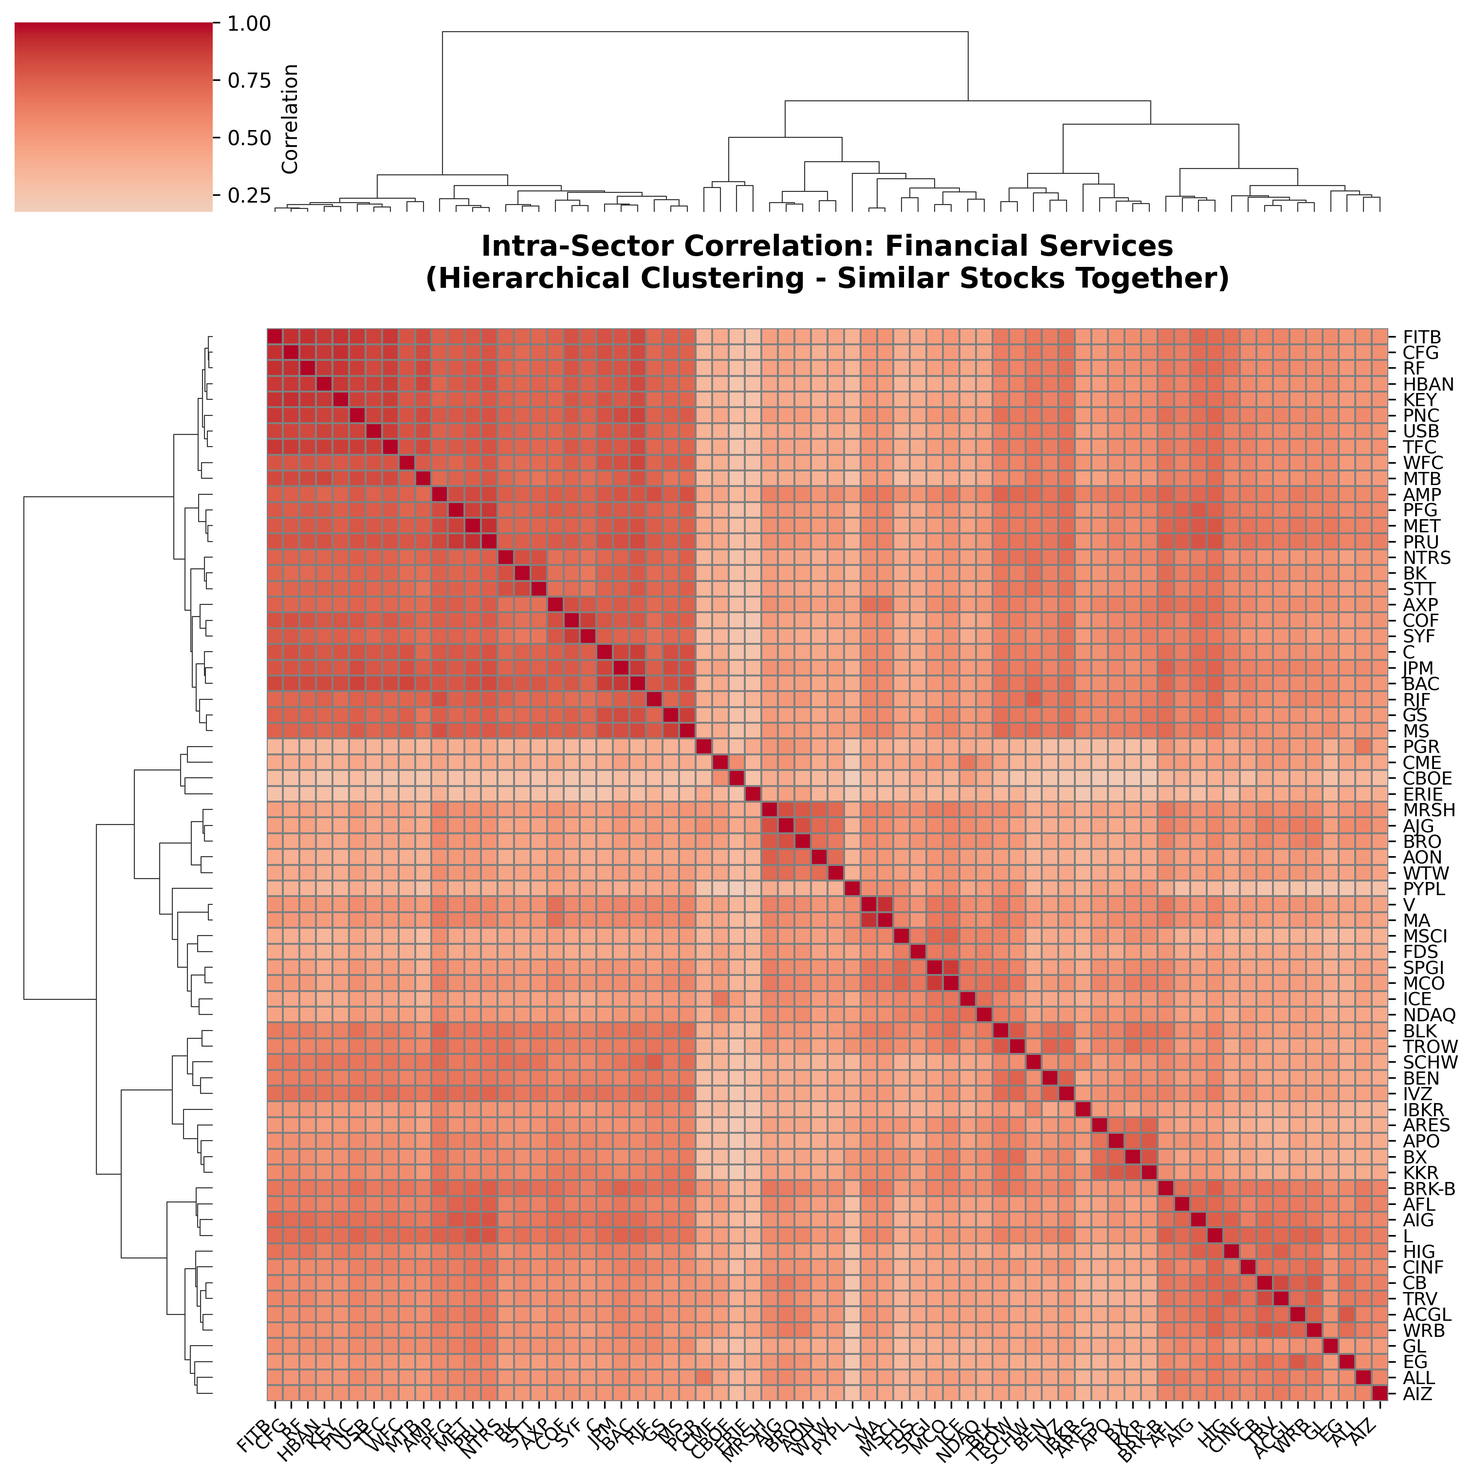
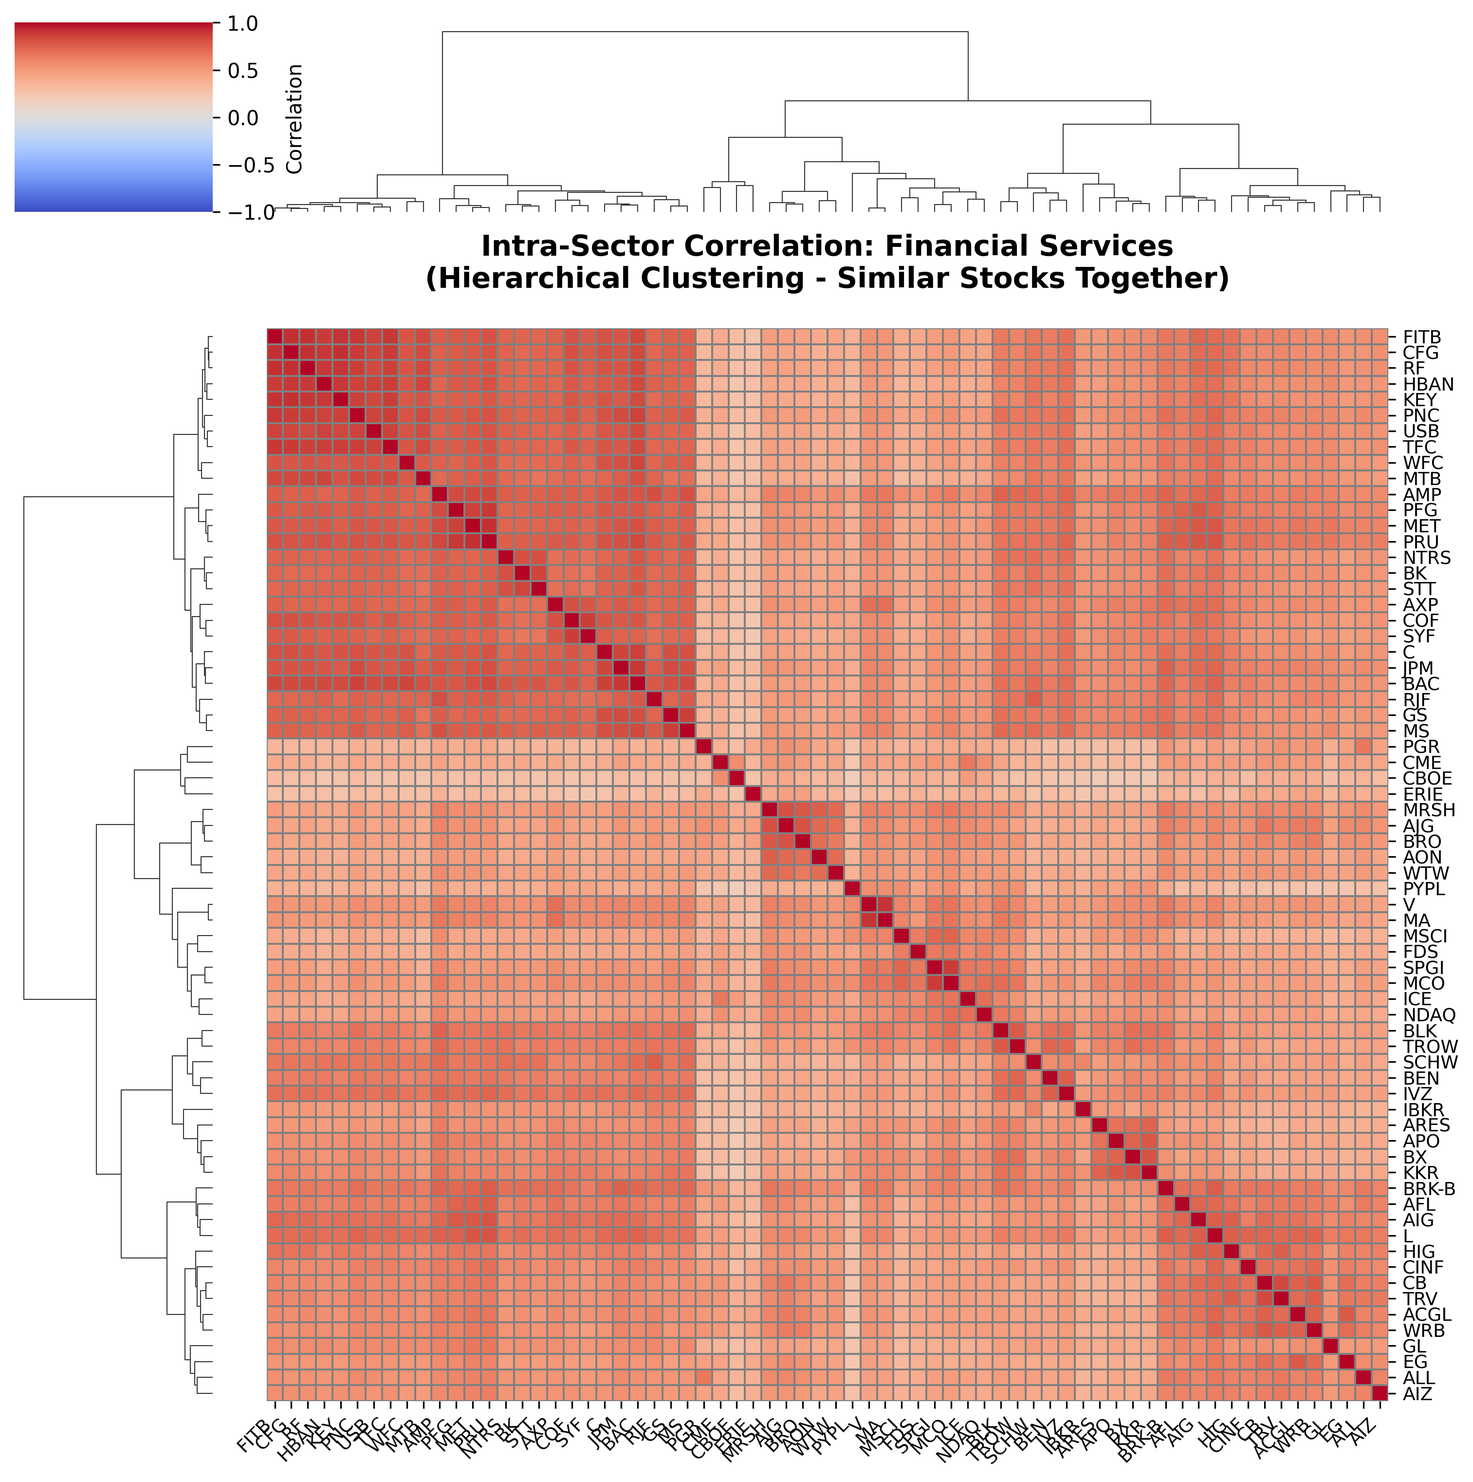
Sync 8-year EDA outputs with report assets

Changed region(s): [[0.0, 0.0, 0.2174, 0.1561]]

diff --git a/LaTex/Final Report.tex b/LaTex/Final Report.tex
@@ -119,33 +119,33 @@ The following heatmaps are created .
 
 \begin{figure}[h]
     \centering
-    \includegraphics[width=0.45\linewidth]{../output/2yrs_sector_correlation.png}
-    \includegraphics[width=0.45\linewidth]{../output/2yrs_sector_sp500_correlation.png}
-    \caption{Correlation across sectors and that of each sector with the S\&P 500 daily return. Highlighted are 3 sectors with highest absolute correlation coefficient with the S\&P 500. Dark colours indicate stronger correlation while light colours indicate weaker correlation. The correlation is calculated based on the engineered feature `Close PC'.}
+    \includegraphics[width=0.45\linewidth]{../output/8yrs_sector_correlation.png}
+    \includegraphics[width=0.45\linewidth]{../output/8yrs_sector_sp500_correlation_mcap_weighted.png}
+    \caption{Correlation across sectors and that of each sector with the S\&P 500 daily return. Highlighted are the three sectors with the highest absolute market-cap-weighted correlation with the S\&P 500: Healthcare ($|r|=0.1244$), Financial Services ($|r|=0.1198$), and Consumer Defensive ($|r|=0.1112$). Dark colours indicate stronger correlation while light colours indicate weaker correlation. The correlation is calculated based on the engineered feature `Close PC'.}
     \label{fig:sector-correlation}
 \end{figure}
 \FloatBarrier
 
-Figure \ref{fig:sector-correlation} shows the correlation of mean daily returns across all sectors \footnote{GICS: Global Industry Classification Standard - a standardized sector taxonomy developed jointly by MSCI and S\&P Dow Jones Indices. It groups companies into 11 sectors. See more at https://www.msci.com/gics}. The map was constructed using the engineered feature `Close PC'. Certain sectors, such as Technology, Healthcare, and Consumer Defensive, exhibit stronger positive correlations with each other while sectors like Utilities and Real Estate show weaker correlations with other sectors. In addition, the sectors' correlation with the S\&P 500 Index indicates that Technology, Healthcare, and Consumer Defensive sectors also have the strongest absolute correlations with the overall market while Utilities and Real Estate show weaker correlations.
+Figure \ref{fig:sector-correlation} shows the correlation of mean daily returns across all sectors \footnote{GICS: Global Industry Classification Standard - a standardized sector taxonomy developed jointly by MSCI and S\&P Dow Jones Indices. It groups companies into 11 sectors. See more at https://www.msci.com/gics}. The map was constructed using the engineered feature `Close PC'. Certain sectors, such as Healthcare, Financial Services, and Consumer Defensive, exhibit stronger positive correlations with each other while sectors like Utilities and Real Estate show weaker correlations with other sectors. In addition, the sectors' market-cap-weighted correlation with the S\&P 500 Index indicates that Healthcare, Financial Services, and Consumer Defensive have the strongest absolute correlations with the overall market while Utilities and Real Estate show weaker correlations.
 
 
 \begin{figure}[h]
     \centering
-    \includegraphics[width=0.32\linewidth]{../output/2yrs_sector_Technology_clustered.png}
-    \includegraphics[width=0.32\linewidth]{../output/2yrs_sector_Healthcare_clustered.png} 
-    \includegraphics[width=0.32\linewidth]{../output/2yrs_sector_Consumer_Defensive_clustered.png}
-    \caption{Intra-sector correlation matrices for the top three sectors by absolute correlation with S\&P 500 returns. From left to right: Technology ($|r| = 0.116$), Healthcare ($|r| = 0.106$), and Consumer Defensive ($|r| = 0.097$) sectors. Hierarchical clustering reveals sub-groups of stocks with similar return dynamics. Warm colours indicate strong positive co-movement while cool colours indicate divergence.}
+    \includegraphics[width=0.32\linewidth]{../output/8yrs_sector_Financial_Services_clustered.png}
+    \includegraphics[width=0.32\linewidth]{../output/8yrs_sector_Healthcare_clustered.png} 
+    \includegraphics[width=0.32\linewidth]{../output/8yrs_sector_Consumer_Defensive_clustered.png}
+    \caption{Intra-sector correlation matrices for the top three sectors by absolute market-cap-weighted correlation with S\&P 500 returns. From left to right: Financial Services ($|r|=0.1198$), Healthcare ($|r|=0.1244$), and Consumer Defensive ($|r|=0.1112$). Hierarchical clustering reveals sub-groups of stocks with similar return dynamics. Warm colours indicate strong positive co-movement while cool colours indicate divergence.}
     \label{fig:top-sectors}
 \end{figure}
 \FloatBarrier
 
-Figure \ref{fig:top-sectors} show the intra-sector correlation matrices for the Technology, Healthcare, and Consumer Defensive sectors, respectively. The tickers in those plots are sorted by hierarchical clustering, which reveals sub-groups of stocks that tend to move together, such as large-cap tech giants, semiconductor companies, and software firms. This suggests that certain segments within these sectors may be driving their overall correlation with the broader market and that there might be a high degree of redundancy in the data. This motivate the use of dimensionality reduction techniques or regularization further.
+Figure \ref{fig:top-sectors} shows the intra-sector correlation matrices for the Financial Services, Healthcare, and Consumer Defensive sectors, respectively. The tickers in those plots are sorted by hierarchical clustering, which reveals sub-groups of stocks that tend to move together within each sector. This suggests that certain segments within these sectors may be driving their overall correlation with the broader market and that there might be a high degree of redundancy in the data. This motivates the use of dimensionality reduction techniques or regularization further.
 
 
 \begin{figure}[h]
     \centering
-    \includegraphics[width=0.45\linewidth]{../output/2yrs_sector_volatility_over_time.png}
-    \includegraphics[width=0.45\linewidth]{../output/2yrs_smoothed_sector_volatility.png}
+    \includegraphics[width=0.45\linewidth]{../output/8yrs_sector_volatility_over_time.png}
+    \includegraphics[width=0.45\linewidth]{../output/8yrs_smoothed_sector_volatility.png}
     \caption{Sector return dispersion. Left panel: sector return dispersion over time. Right panel: smoothed sector return dispersion over time.}
     \vspace{0.3em}
     {\footnotesize
@@ -161,7 +161,7 @@ Figure \ref{fig:sector-vol} shows the rolling 21-day average cross-sectional sta
 
 
 For a numerical summary, Table \ref{tab:descriptive_stats} reports yearly means and standard deviations of returns for the three key sectors, along with the yearly S\&P 500 up-day proportion.
-\input{../output/descriptive_stats.tex}
+\input{../output/8yrs_descriptive_stats.tex}
 
 Average daily returns are generally positive except for 2022. The volatility in return rises sharply in 2020 and again in 2022, with Technology consistently exhibiting the highest dispersion and Consumer Defensive the lowest. The S\&P 500 up-day proportion is above 0.50 in most years but drops below 0.50 in 2022, meaning that the data is not very balanced in terms of responses.
 
@@ -238,7 +238,7 @@ Table~\ref{tab:base_logistic_comparison} presents the performance comparison of 
 
 
 
-\input{../output/base_rf_comparison.tex}
+\input{../output/8yrs_base_rf_comparison.tex}
 \FloatBarrier
 
 Table~\ref{tab:base_rf_comparison} presents the performance comparison of different random forest models with predictors of raw features and of selected PCA components. The depth of the tree and number of estimators are selected based on grid search cross validation. The random forest using raw features outperforms the PCA-based logistic regression, and applying PCA before the random forest improves performance even further (accuracy in the test set increased to 54 \%). LASSO and Ridge application in feature selections for random forest does not improve performance compared to PCA. However, the standard deviation of both train and test cross validation accuracy is higher for the random forest compared to logistic regression, which suggests that the random forest may be more sensitive to the data set used to train. 
@@ -255,7 +255,7 @@ Table~\ref{tab:model_comparison} reveals that sequential models (RNN and LSTM) a
 
 \subsection{Hourly Models}
 
-\input{../output/logistic_regression_24hours_three_model_comparison.tex}
+\input{../output/8yrs_logistic_regression_24hours_three_model_comparison.tex}
 \FloatBarrier
 
 To further investigate the temporal dependencies of the market, we also experimented with similar models for the hourly data. Table \ref{tab:logreg_l2_elasticnet_24h} presents the performance comparison of logistic regression models with L2 regularization, Elastic Net regularization, and feature-engineered L2 regularization using 24-hour lag features. The results indicate that the performance of the hourly models is better than the daily models, with the best performing model  with an accuracy of 0.5478 and ROC-AUC value around 60 \%. This suggests that a clearer short window of dependencies rather than by days/ weeks.
@@ -400,28 +400,28 @@ For each sector, correlation with the S\&P 500 series is computed using Pearson 
 \subsection{Additional figures and tables}
 \begin{figure}[htbp]
   \centering
-  \includegraphics[width=0.95\textwidth]{../output/base_logistic_bias_variance.png}
+  \includegraphics[width=0.95\textwidth]{../output/8yrs_base_logistic_bias_variance.png}
   \caption{Bias-variance tradeoff for logistic regression with regularization using raw OHLCV features.}
   \label{fig:base-bv-raw}
 \end{figure}
 
 \begin{figure}[htbp]
   \centering
-  \includegraphics[width=0.95\textwidth]{../output/base_logistic_train_test.png}
+  \includegraphics[width=0.95\textwidth]{../output/8yrs_base_logistic_train_test.png}
   \caption{Train vs. test error across regularization strengths (direct train/test split) using raw OHLCV features.}
   \label{fig:base-train-test-raw}
 \end{figure}
 
 \begin{figure}[htbp]
   \centering
-  \includegraphics[width=0.95\textwidth]{../output/base_logistic_pca_bias_variance.png}
+  \includegraphics[width=0.95\textwidth]{../output/8yrs_base_logistic_pca_bias_variance.png}
   \caption{Bias-variance tradeoff using PCA features (90\% explained variance) with regularized logistic regression.}
   \label{fig:base-bv-pca}
 \end{figure}
 
 \begin{figure}[htbp]
   \centering
-  \includegraphics[width=0.95\textwidth]{../output/base_logistic_pca_train_test.png}
+  \includegraphics[width=0.95\textwidth]{../output/8yrs_base_logistic_pca_train_test.png}
   \caption{Train vs. test error across regularization strengths (direct split) using PCA features (90\% explained variance).}
   \label{fig:base-train-test-pca}
 \end{figure}
@@ -431,21 +431,21 @@ For each sector, correlation with the S\&P 500 series is computed using Pearson 
 
 \begin{figure}[htbp]
   \centering
-  \includegraphics[width=0.95\textwidth]{../output/base_rf_bias_variance.png}
+  \includegraphics[width=0.95\textwidth]{../output/8yrs_base_rf_bias_variance.png}
   \caption{Bias-variance tradeoff for random forest classifier across different feature sets.}
   \label{fig:base-rf-bv}
 \end{figure}
 
 \begin{figure}[htbp]
   \centering
-  \includegraphics[width=0.95\textwidth]{../output/base_rf_train_test.png}
+  \includegraphics[width=0.95\textwidth]{../output/8yrs_base_rf_train_test.png}
   \caption{Train vs. test error comparison for random forest models with different feature engineering approaches.}
   \label{fig:base-rf-train-test}
 \end{figure}
 
 \begin{figure}[htbp]
   \centering
-  \includegraphics[width=0.95\textwidth]{../output/base_rf_best_tree.png}
+  \includegraphics[width=0.95\textwidth]{../output/8yrs_base_rf_best_tree.png}
   \caption{Visualization of one decision tree from the best performing random forest model.}
   \label{fig:base-rf-tree}
 \end{figure}

diff --git a/LaTex/PresentationSlide.tex b/LaTex/PresentationSlide.tex
@@ -233,9 +233,9 @@
 \begin{frame}{Exploratory Data Analysis}
 \begin{figure}[h]
     \centering
-    \includegraphics[width=0.45\linewidth]{../output/Used/png/8yrs_sector_correlation.png}
-    \includegraphics[width=0.45\linewidth]{../output/Used/png/8yrs_sector_sp500_correlation.png}
-    \caption{Correlation across sectors and that of each sector with the S\&P 500 daily return. Highlighted are the top three sectors by absolute correlation with S\&P 500: Financial Services ($r=-0.1249$), Technology ($r=-0.1170$), and Consumer Defensive ($r=-0.1155$).}
+    \includegraphics[width=0.45\linewidth]{../output/8yrs_sector_correlation.png}
+    \includegraphics[width=0.45\linewidth]{../output/8yrs_sector_sp500_correlation_mcap_weighted.png}
+    \caption{Correlation across sectors and that of each sector with the S\&P 500 daily return. Highlighted are the top three sectors by absolute market-cap-weighted correlation with the S\&P 500: Healthcare ($|r|=0.1244$), Financial Services ($|r|=0.1198$), and Consumer Defensive ($|r|=0.1112$).}
     \label{fig:sector-correlation}
 \end{figure}
 \end{frame}
@@ -243,10 +243,10 @@
 \begin{frame}{Exploratory Data Analysis}
 \begin{figure}[h]
     \centering
-    \includegraphics[width=0.32\linewidth]{../output/Used/png/8yrs_sector_Financial_Services_clustered.png}
-    \includegraphics[width=0.32\linewidth]{../output/Used/png/8yrs_sector_Technology_clustered.png}
-    \includegraphics[width=0.32\linewidth]{../output/Used/png/8yrs_sector_Consumer_Defensive_clustered.png}
-    \caption{Intra-sector correlation matrices for the top three sectors by absolute correlation with S\&P 500 returns. From left to right: Financial Services ($r=-0.1249$), Technology ($r=-0.1170$), and Consumer Defensive ($r=-0.1155$). Hierarchical clustering groups stocks with similar return dynamics. Warm colours indicate strong positive co-movement while cool colours indicate divergence.}
+    \includegraphics[width=0.32\linewidth]{../output/8yrs_sector_Financial_Services_clustered.png}
+    \includegraphics[width=0.32\linewidth]{../output/8yrs_sector_Healthcare_clustered.png}
+    \includegraphics[width=0.32\linewidth]{../output/8yrs_sector_Consumer_Defensive_clustered.png}
+    \caption{Intra-sector correlation matrices for the top three sectors by absolute market-cap-weighted correlation with S\&P 500 returns. From left to right: Financial Services ($|r|=0.1198$), Healthcare ($|r|=0.1244$), and Consumer Defensive ($|r|=0.1112$). Hierarchical clustering groups stocks with similar return dynamics. Warm colours indicate strong positive co-movement while cool colours indicate divergence.}
     \label{fig:top-sectors}
 \end{figure}
 \end{frame}
@@ -254,8 +254,8 @@
 \begin{frame}{Exploratory Data Analysis}
   \begin{figure}[h]
     \centering
-    \includegraphics[width=0.45\linewidth]{../output/Used/png/8yrs_sector_volatility_over_time.png}
-    \includegraphics[width=0.45\linewidth]{../output/Used/png/8yrs_smoothed_sector_volatility.png}
+    \includegraphics[width=0.45\linewidth]{../output/8yrs_sector_volatility_over_time.png}
+    \includegraphics[width=0.45\linewidth]{../output/8yrs_smoothed_sector_volatility.png}
     \caption{Sector volatility. Left panel: 21-day-window average volatility. Right panel: its smoothed version by moving average over 40 days.}
     \label{fig:sector-vol}
 \end{figure}
@@ -263,7 +263,7 @@
 
 \begin{frame}[t,shrink=25]{Exploratory Data Analysis: Descriptive Statistics}
   \scriptsize
-  \input{../output/Used/tex/descriptive_stats.tex}
+  \input{../output/8yrs_descriptive_stats.tex}
 \end{frame}
 
 \begin{frame}{Exploratory Data Analysis: Descriptive Stats Summary}
@@ -454,7 +454,7 @@
 \scriptsize
 \setlength{\tabcolsep}{2pt}
 \renewcommand{\arraystretch}{0.9}
-\input{../output/Used/tex/8yrs_1SE_base_logistic_comparison.tex}
+\input{../output/8yrs_1SE_base_logistic_comparison.tex}
 \endgroup
 \FloatBarrier
 \end{frame}
@@ -483,7 +483,7 @@
 \subsubsection{Random Forest Models}
 \begin{frame}[t,shrink=25]{Results}
 \textbf{Random Forest Models}\\
-\input{../output/Used/tex/8yrs_1SE_base_rf_comparison.tex}
+\input{../output/8yrs_1SE_base_rf_comparison.tex}
 \FloatBarrier
 \end{frame}
 
@@ -529,7 +529,7 @@
 
 \subsection{Extended Feature Models}
 \begin{frame}[t,shrink=25]{Results}
-\input{../output/Used/tex/8yrs_3methods_comparison.tex}
+\input{../output/8yrs_3methods_comparison.tex}
 %The table compares Random Forest, SVM, and Logistic Regression models over an 8-year period, reporting accuracy, standard deviation, precision, recall, and F1 for the positive class ("Up").
 \end{frame}
 
@@ -587,7 +587,7 @@
 
 \subsection{Experiment with hourly data}
 \begin{frame}[t,shrink=25]{Experiment with hourly data}
-\input{../output/Used/tex/logistic_regression_24hours_three_model_comparison.tex}
+\input{../output/8yrs_logistic_regression_24hours_three_model_comparison.tex}
 \FloatBarrier
 \end{frame}
 

diff --git a/PyScripts/EDA/EDA_simple.py b/PyScripts/EDA/EDA_simple.py
@@ -81,10 +81,10 @@ def write_descriptive_stats_latex(table: pd.DataFrame, output_path: Path, select
 
     for year, row in table.iterrows():
         lines.append(
-            f"{year} & {int(row['Count'])} & {row['S&P 500 Prop. Up']:.4f} "
-            f"& {row[(selected_sectors[0], 'mean')]:.4f} & {row[(selected_sectors[0], 'std')]:.4f} "
-            f"& {row[(selected_sectors[1], 'mean')]:.4f} & {row[(selected_sectors[1], 'std')]:.4f} "
-            f"& {row[(selected_sectors[2], 'mean')]:.4f} & {row[(selected_sectors[2], 'std')]:.4f} \\\\"
+            f"{year} & {int(row['Count'])} & {row['S&P 500 Prop. Up']:.3f} "
+            f"& {row[(selected_sectors[0], 'mean')]:.3f} & {row[(selected_sectors[0], 'std')]:.3f} "
+            f"& {row[(selected_sectors[1], 'mean')]:.3f} & {row[(selected_sectors[1], 'std')]:.3f} "
+            f"& {row[(selected_sectors[2], 'mean')]:.3f} & {row[(selected_sectors[2], 'std')]:.3f} \\\\"
         )
 
     lines.extend(
@@ -176,11 +176,14 @@ for sector, sector_stocks in sector_to_stocks.items():
 sector_returns = pd.DataFrame(sector_dict)
 sector_returns = ensure_datetime_index(sector_returns)
 sector_corr = sector_returns.corr()
+print(f"Sector mean-return correlation range: {sector_corr.min().min():.4f} to {sector_corr.max().max():.4f}")
 
 # Create clustermap for sector correlation with hierarchical clustering
 g = sns.clustermap(sector_corr,
                    cmap='RdYlGn',
                    center=0,
+                   vmin=-1,
+                   vmax=1,
                    figsize=(10, 10),
                    cbar_kws={'label': 'Correlation'},
                    method='ward',
@@ -228,6 +231,7 @@ def plot_sector_with_marketcap(sector_name, stocks_in_sector, returns_df, output
     # Calculate correlation
     sector_returns = returns_df[sorted_stocks]
     corr_matrix = sector_returns.corr()
+    print(f"  {sector_name} correlation range: {corr_matrix.min().min():.4f} to {corr_matrix.max().max():.4f}")
     
     # Create clustermap with hierarchical clustering
     figsize = (min(16, max(10, len(sorted_stocks)*0.15)), 
@@ -237,6 +241,8 @@ def plot_sector_with_marketcap(sector_name, stocks_in_sector, returns_df, output
     g = sns.clustermap(corr_matrix, 
                        cmap='coolwarm', 
                        center=0,
+                       vmin=-1,
+                       vmax=1,
                        figsize=figsize,
                        cbar_kws={'label': 'Correlation'},
                        method='ward',  # Hierarchical clustering method

diff --git a/output/descriptive_stats.tex b/output/descriptive_stats.tex
@@ -5,14 +5,14 @@
 Year & Count & \multicolumn{1}{c|}{S \&P 500 Prop. Up} & \multicolumn{2}{c|}{Healthcare} & \multicolumn{2}{c|}{Financial Services} & \multicolumn{2}{c}{Consumer Defensive} \\
  &  & Value & Mean & SD & Mean & SD & Mean & SD \\
 \hline
-2018 & 250 & 0.5000 & 0.0003 & 0.0114 & -0.0003 & 0.0112 & -0.0002 & 0.0089 \\
-2019 & 252 & 0.5833 & 0.0011 & 0.0094 & 0.0013 & 0.0092 & 0.0011 & 0.0065 \\
-2020 & 253 & 0.5692 & 0.0011 & 0.0204 & 0.0008 & 0.0290 & 0.0007 & 0.0169 \\
-2021 & 252 & 0.5516 & 0.0010 & 0.0079 & 0.0013 & 0.0114 & 0.0007 & 0.0071 \\
-2022 & 251 & 0.4701 & -0.0001 & 0.0138 & -0.0001 & 0.0159 & 0.0002 & 0.0110 \\
-2023 & 250 & 0.5640 & 0.0003 & 0.0081 & 0.0007 & 0.0113 & -0.0001 & 0.0074 \\
-2024 & 252 & 0.5357 & 0.0001 & 0.0075 & 0.0011 & 0.0092 & 0.0000 & 0.0069 \\
-2025 & 248 & 0.5403 & 0.0005 & 0.0115 & 0.0007 & 0.0127 & 0.0000 & 0.0098 \\
+2018 & 250 & 0.500 & 0.000 & 0.011 & -0.000 & 0.011 & -0.000 & 0.009 \\
+2019 & 252 & 0.583 & 0.001 & 0.009 & 0.001 & 0.009 & 0.001 & 0.006 \\
+2020 & 253 & 0.569 & 0.001 & 0.020 & 0.001 & 0.029 & 0.001 & 0.017 \\
+2021 & 252 & 0.552 & 0.001 & 0.008 & 0.001 & 0.011 & 0.001 & 0.007 \\
+2022 & 251 & 0.470 & -0.000 & 0.014 & -0.000 & 0.016 & 0.000 & 0.011 \\
+2023 & 250 & 0.564 & 0.000 & 0.008 & 0.001 & 0.011 & -0.000 & 0.007 \\
+2024 & 252 & 0.536 & 0.000 & 0.007 & 0.001 & 0.009 & 0.000 & 0.007 \\
+2025 & 249 & 0.538 & 0.001 & 0.011 & 0.001 & 0.013 & 0.000 & 0.010 \\
 \hline
 \end{tabular}
 \caption{Yearly selected descriptive statistics: trading-day count, S\&P 500 up-day proportion, and sector return moments}
